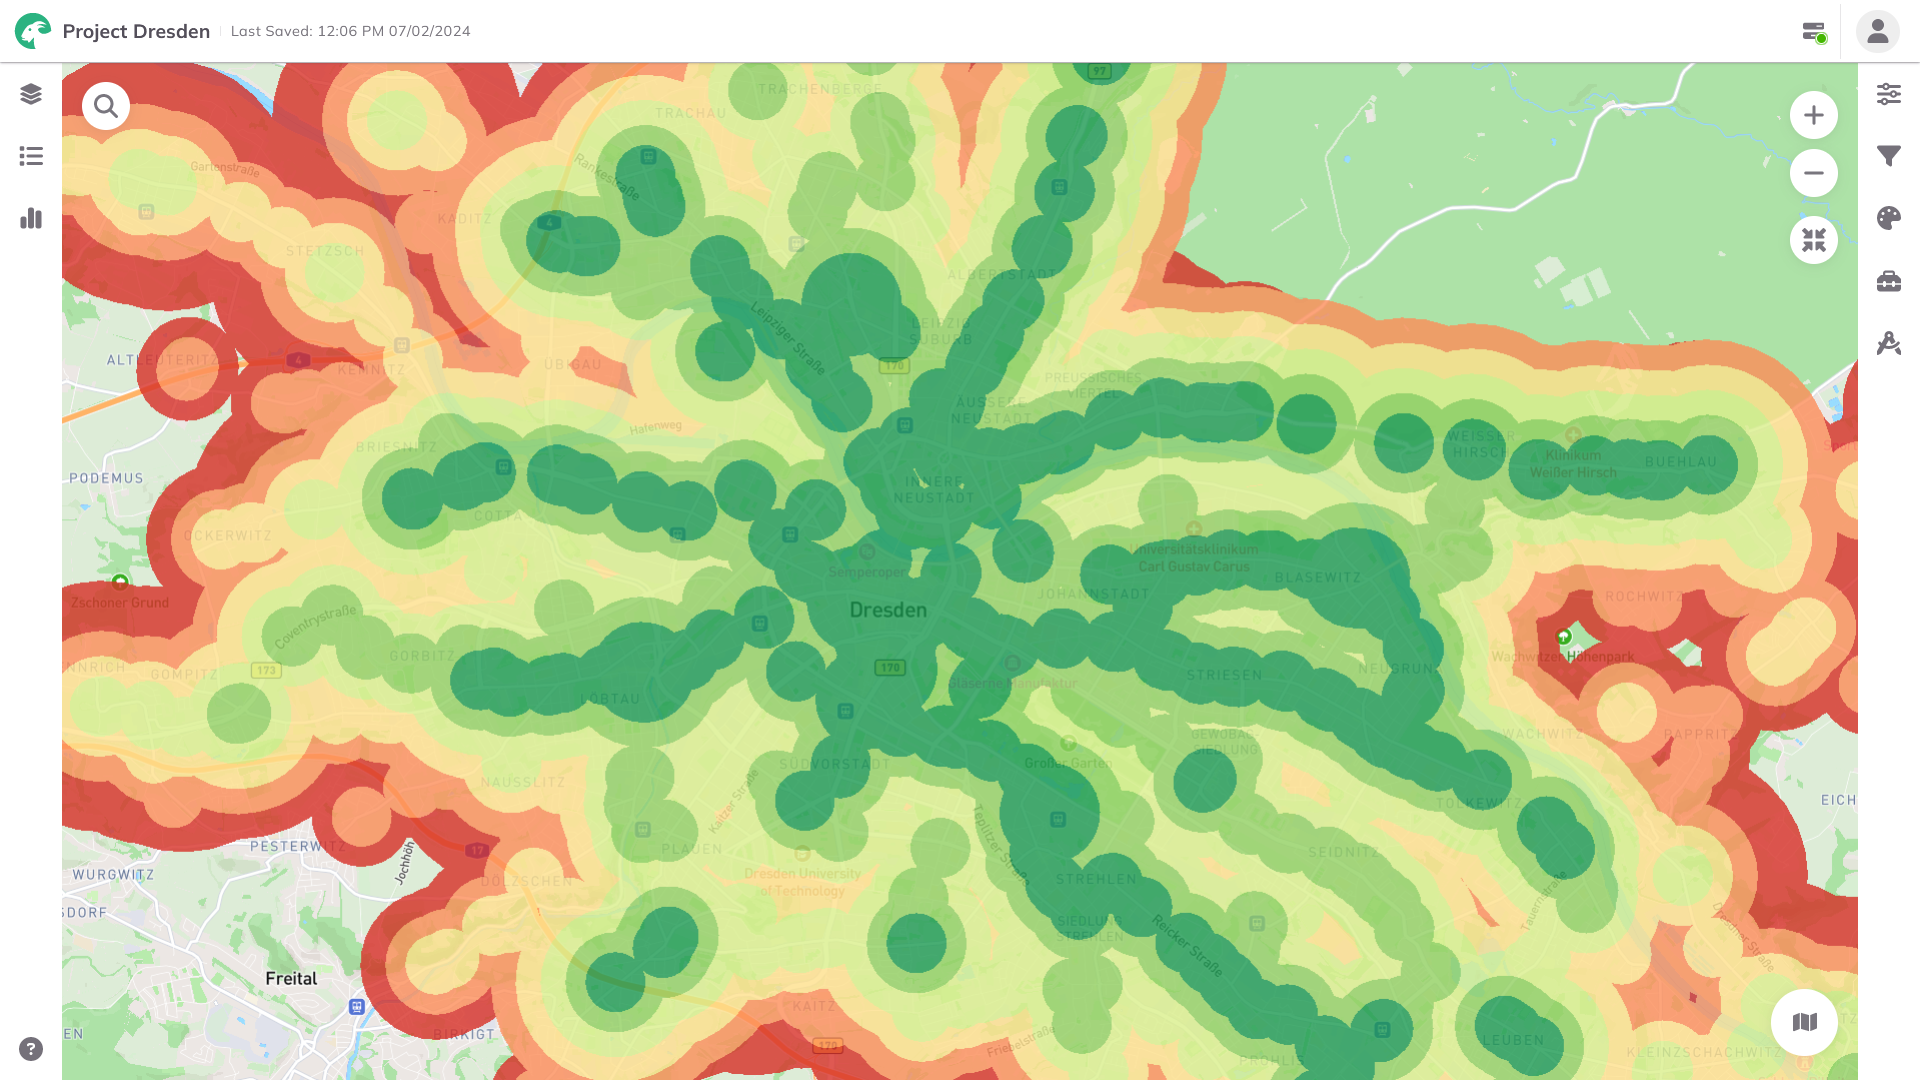
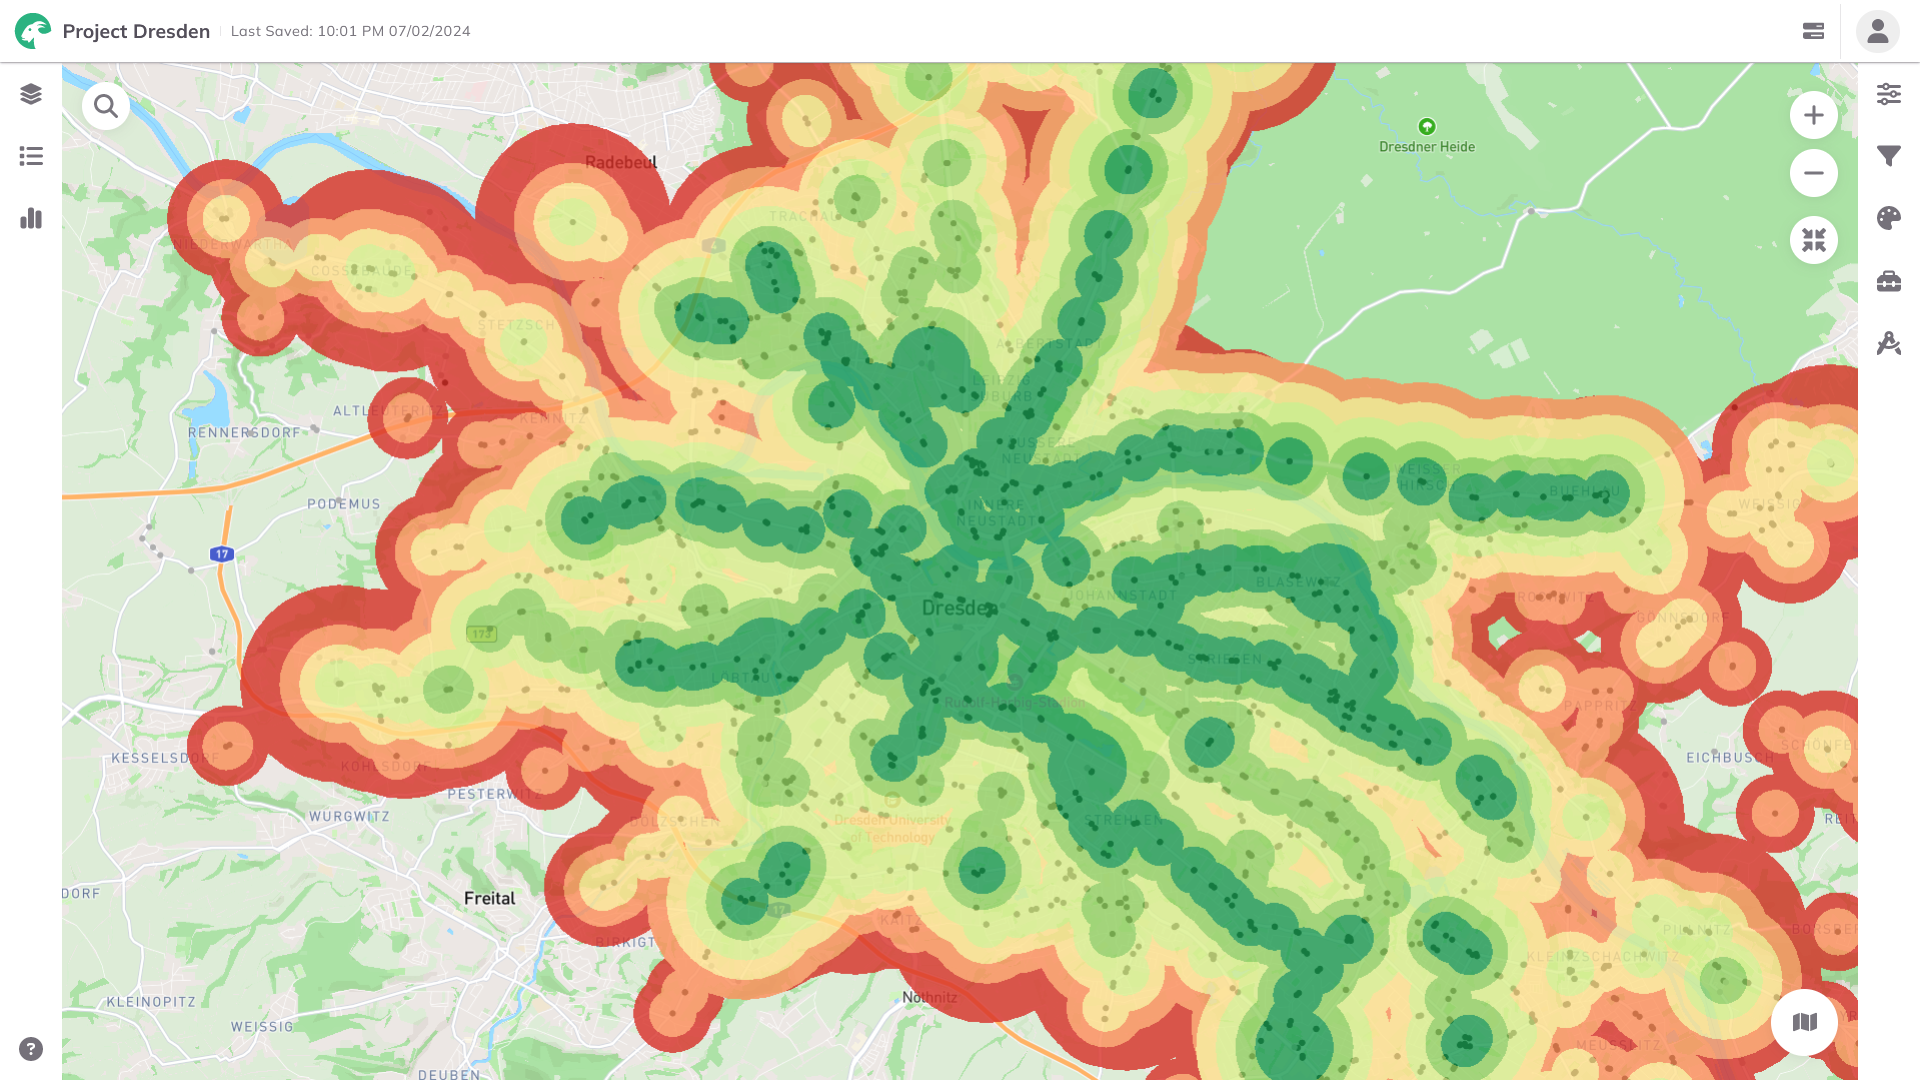
öv güteklassen

diff --git a/docs/toolbox/accessibility_indicators/oev_gueteklassen.md b/docs/toolbox/accessibility_indicators/oev_gueteklassen.md
@@ -15,7 +15,6 @@ Public Transport Quality Classes, also known as **ÖV-Güteklassen**, are a clas
 
 ![ÖV-Güteklassen in GOAT](/img/indicators/public_transport/gueteklassen/example.png "ÖV-Güteklassen in GOAT")
 
-<span style={{color: "#FF0000"}}>TODO: redo screenshot when correct styling is applied and legend is added</span> 
 
 ## 2. Example use cases
 
@@ -63,12 +62,12 @@ Depending on the size of the selected area, the calculation might take some minu
 
 <div class="step">
   <div class="step-number">6</div>
-  <div class="content">As soon as the calculation process is finished, the resulting layers will be added to the map. The results consist of one layer called "ÖV-Güteklassen", showing the Public Transport Quality Classes, and one layer called "ÖV-Güteklassen Stations" which provides all stations that were used for the calculation of this indicator.</div>
+  <div class="content">As soon as the calculation process is finished, the resulting layers will be added to the map. The results consist of one layer called "ÖV-Güteklassen", showing the Public Transport Quality Classes, and one layer called "ÖV-Güteklassen Stations" which provides all stations that were used for the calculation of this indicator. The station points that are visualized in grey have a too low service frequency and thus do not contribute to any Public Transport Quality Class.</div>
 </div>
 
 ![Result - Public Transport Quality Classes](/img/indicators/public_transport/gueteklassen/result.png "Result - Public Transport Quality Classes")
 
-<span style={{color: "#FF0000"}}>TODO: add isochrone starting points to image.</span>
+<span style={{color: "#FF0000"}}>TODO: redo screenshot when layer order can be adjusted</span> 
 
 ## 4. Technical details
 
